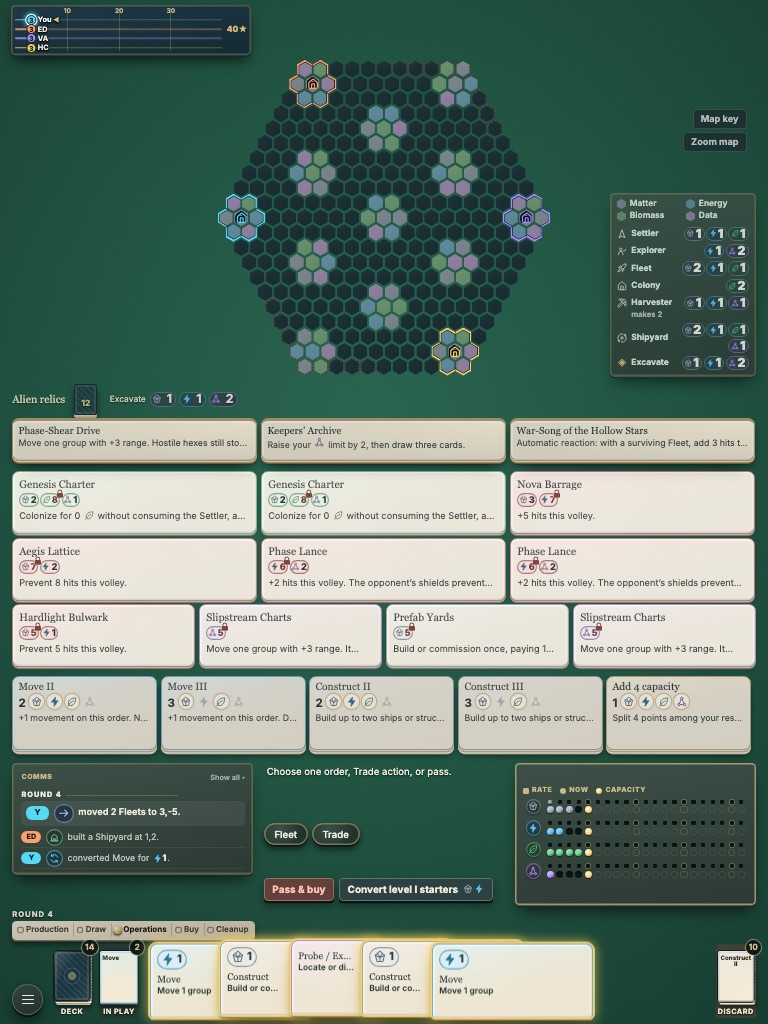
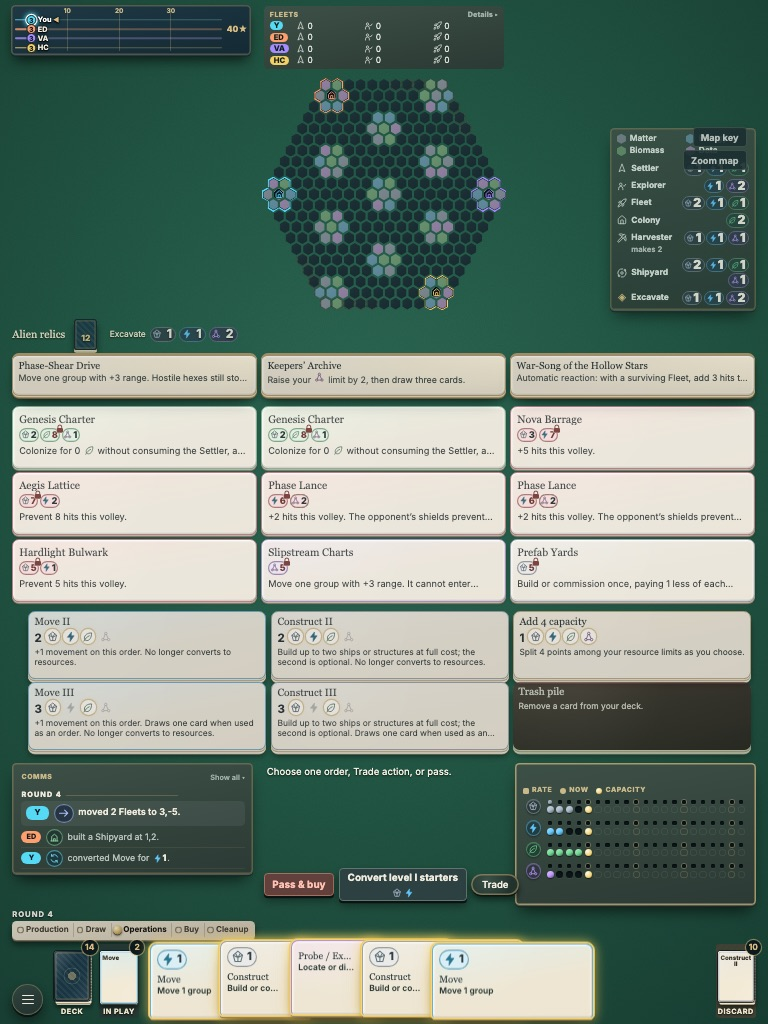
Supply strictly 3x4 (relics, then three rows of three market cards); no band above the upgrades (turn prompt joins the phases on top); Upgrades as a 3x2 grid with the Trash pile; Pass/Finish, Convert and Trade right of the mat above Discard; no Fleet button

diff --git a/prototypes/galactic-reach/styles.css b/prototypes/galactic-reach/styles.css
@@ -2690,6 +2690,15 @@ html { -webkit-text-size-adjust: 100%; text-size-adjust: 100%; }
    phases lie at the top of the supply, over the relics and the market. The Alien relics header
    row is gone (Preview all is in the menu; the Excavate cost in the map key). ==== */
 .fleet-glance { display: none; }
+@media (min-width: 600px) and (min-height: 600px) {
+  .fleet-glance-head { display: flex; justify-content: space-between; align-items: center; padding: 0; border: 0; background: none; color: #c9b98a; font: inherit; font-size: 9px; font-weight: 800; letter-spacing: .08em; text-transform: uppercase; cursor: pointer; }
+  .fleet-glance-head small { color: #9fb0a8; font-size: 9.5px; letter-spacing: 0; text-transform: none; }
+  .fleet-glance-head:focus-visible { outline: 2px solid var(--cyan); outline-offset: 1px; border-radius: 4px; }
+  .fleet-glance-row { display: grid; grid-template-columns: 30px repeat(3, 1fr); align-items: center; gap: 4px; }
+  .fleet-glance-row b { justify-self: start; padding: 0 5px; border-radius: 8px; background: var(--player); color: #10201c; font-size: 10px; font-weight: 800; }
+  .fleet-glance-row span { display: inline-flex; align-items: center; gap: 3px; }
+  .fleet-glance-row .board-glyph { width: 12px; height: 12px; fill: none; stroke: currentColor; stroke-width: 2; }
+}
 @media (min-width: 600px) and (min-height: 600px) and (orientation: landscape) {
   .board-map-region { grid-column: 2 !important; place-items: center !important; }
   .map-tools { grid-column: 2 !important; }
@@ -2699,13 +2708,6 @@ html { -webkit-text-size-adjust: 100%; text-size-adjust: 100%; }
     grid-column: 1; grid-row: 1 / 9; align-self: end; z-index: 4; display: grid; gap: 3px; margin: 0 0 calc(var(--legend-h, 262px) + 10px) 4px; padding: 6px 9px 7px;
     border-radius: 6px; background: linear-gradient(170deg, #3d5047, #2b3a34); box-shadow: inset 0 0 0 2px #c2a76b55, 0 3px 0 #18221f, 0 12px 20px -6px #000b; color: #dfe6e0; font-size: 11px; font-weight: 600;
   }
-  .fleet-glance-head { display: flex; justify-content: space-between; align-items: center; padding: 0; border: 0; background: none; color: #c9b98a; font: inherit; font-size: 9px; font-weight: 800; letter-spacing: .08em; text-transform: uppercase; cursor: pointer; }
-  .fleet-glance-head small { color: #9fb0a8; font-size: 9.5px; letter-spacing: 0; text-transform: none; }
-  .fleet-glance-head:focus-visible { outline: 2px solid var(--cyan); outline-offset: 1px; border-radius: 4px; }
-  .fleet-glance-row { display: grid; grid-template-columns: 30px repeat(3, 1fr); align-items: center; gap: 4px; }
-  .fleet-glance-row b { justify-self: start; padding: 0 5px; border-radius: 8px; background: var(--player); color: #10201c; font-size: 10px; font-weight: 800; }
-  .fleet-glance-row span { display: inline-flex; align-items: center; gap: 3px; }
-  .fleet-glance-row .board-glyph { width: 12px; height: 12px; fill: none; stroke: currentColor; stroke-width: 2; }
   #fleet-tab { display: none !important; }
   #relics-panel > .section-intro:not(:has(#cancel-excavate:not([hidden]))), #relics-panel .relic-payment, #relic-row-help { display: none !important; }
   /* The round's phases on top of the supply. */
@@ -2718,3 +2720,54 @@ html { -webkit-text-size-adjust: 100%; text-size-adjust: 100%; }
   /* Notices lie over the map key at the bottom of the left column (it has no controls). */
   .toast { top: auto !important; bottom: calc((var(--front-h-fixed, 96px) + 22px) * var(--table-zoom, 1)) !important; left: calc(20px * var(--table-zoom, 1)) !important; }
 }
+
+/* ==== The supply column with no band: the round's phases and the turn prompt on top, the relics,
+   the market (three rows of three), then the Upgrades area (Move II, Construct II, Add capacity /
+   Move III, Construct III, Trash) right above your mat. The turn's buttons and Trade stack to the
+   right of the mat, above Discard. The Fleet button is gone: the fleets panel is on the left. ==== */
+@media (min-width: 600px) and (min-height: 600px) {
+  #fleet-tab, #open-trash { display: none !important; }
+  #market-row > .game-card[hidden] { display: none !important; }
+  /* Upgrade cards show their whole name, payment icons and a two-line effect. */
+  .upgrade-group #upgrade-market .game-card:not(:hover):not(:focus):not(:focus-within) .card-effect { display: -webkit-box !important; -webkit-box-orient: vertical; -webkit-line-clamp: 2 !important; line-clamp: 2 !important; white-space: normal !important; overflow: hidden !important; font-size: 11px !important; line-height: 1.25 !important; }
+  .upgrade-group #upgrade-market { grid-template-columns: 16px repeat(3, minmax(0, 1fr)) !important; grid-template-rows: repeat(2, var(--utop-h)) !important; --utop-h: 88px !important; }
+  .upgrade-group #upgrade-market::before { grid-row: 1 / 3 !important; }
+  .upgrade-group #upgrade-market > [data-upgrade-offer="move"][data-upgrade-level="2"] { grid-column: 2; grid-row: 1; }
+  .upgrade-group #upgrade-market > [data-upgrade-offer="construct"][data-upgrade-level="2"] { grid-column: 3; grid-row: 1; }
+  .upgrade-group #upgrade-market > .capacity-offer { grid-column: 4; grid-row: 1; }
+  .upgrade-group #upgrade-market > [data-upgrade-offer="move"][data-upgrade-level="3"] { grid-column: 2; grid-row: 2; }
+  .upgrade-group #upgrade-market > [data-upgrade-offer="construct"][data-upgrade-level="3"] { grid-column: 3; grid-row: 2; }
+  .upgrade-group #upgrade-market > .trash-pile { grid-column: 4; grid-row: 2; box-shadow: 0 1px 0 #efe5cc, 0 2px 0 #cfc09c, 0 3px 0 #a99a77, 0 5px 0 #efe5cc, 0 6px 0 #a99a77, 0 9px 10px -3px #000a !important; }
+  .upgrade-group #upgrade-market .game-card:not(:hover):not(:focus):not(:focus-within) .card-name { white-space: normal !important; overflow: visible !important; text-overflow: clip !important; }
+}
+@media (min-width: 600px) and (min-height: 600px) and (orientation: landscape) {
+  .app-shell, .has-saved-table .app-shell, .has-replay .app-shell { grid-template-rows: auto auto auto minmax(0, 1fr) auto auto auto auto var(--front-h) !important; }
+  .phase-stepper { grid-row: 1 !important; }
+  .board-toolbar { grid-row: 2 !important; align-self: start !important; margin: 0 0 6px !important; }
+  #relics-panel, #relics-panel[hidden], #relics-panel.tab-panel { grid-row: 3 !important; }
+  .tab-panel { grid-row: 4 !important; }
+  #relics-panel.tab-panel { grid-row: 3 !important; }
+  #fleet-panel.active { grid-row: 3 / 5 !important; }
+  .upgrade-group { grid-row: 6 !important; margin-top: 6px; }
+  /* The turn's buttons and Trade: a column right of the mat, above Discard. */
+  #resource-grid.resource-grid { justify-self: start !important; width: calc(100% - 252px) !important; margin-right: 0 !important; }
+  #hand-panel .hand-tools { grid-column: 3 !important; grid-row: 8 !important; justify-self: end !important; align-self: start !important; width: 240px !important; display: flex !important; flex-direction: column; align-items: stretch; gap: 6px; margin: 0 !important; }
+  #hand-panel .hand-tools .button { width: 100%; white-space: normal; text-align: center; }
+  .console-nav { display: none !important; }
+  #hand-panel .hand-tools #open-trade { align-self: stretch; }
+}
+/* Upright: the fleets panel joins the top rows, beside the Prestige track. */
+@media (min-width: 600px) and (min-height: 600px) and (orientation: portrait) {
+  .fleet-glance { display: grid !important; grid-column: 2 !important; grid-row: 1 !important; align-self: start; gap: 2px; padding: 5px 8px; border-radius: 6px; background: linear-gradient(170deg, #3d5047, #2b3a34); color: #dfe6e0; font-size: 11px; }
+}
+/* While you choose an Excavate reward, each relic's choose button lies over the foot of its card,
+   so the relics row keeps its height and the market keeps its room. */
+@media (min-width: 600px) and (min-height: 600px) {
+  .relic-row > div:has(> .button) { position: relative; height: var(--rtop-h, 56px) !important; }
+  .relic-row > div:has(> .button) > .game-card { height: 100% !important; }
+  .relic-row > div > .button { position: absolute !important; left: 4px; right: 4px; bottom: 3px; z-index: 2; min-height: 0 !important; padding: 1px 6px !important; font-size: 11px !important; line-height: 1.2; }
+}
+/* The Trash pile: a dark pile with light lettering. */
+.upgrade-group #upgrade-market > .trash-pile { background: linear-gradient(170deg, #4a302a, #2e1d19) !important; border-color: #a77b66 !important; color: #f4e3d6 !important; filter: none !important; }
+.upgrade-group #upgrade-market > .trash-pile :is(.card-name, .card-effect) { color: #f4e3d6 !important; }
+.upgrade-group #upgrade-market > .trash-pile.unavailable { opacity: .7; }

diff --git a/prototypes/galactic-reach/rulebook.html b/prototypes/galactic-reach/rulebook.html
@@ -123,7 +123,7 @@
 
       <section id="movement">
         <h2>05 / Exploration &amp; movement</h2>
-        <p id="shared-board">Read shared table information around the board: on a desktop window, the whole window is one table, scaled as a whole to fit; the standings are the race to the Prestige goal, a small printed track by the map’s top-left corner with one lane per faction and its marker at its current score (the acting faction’s marker glows, with an arrow; point at or focus a marker for an overview of that faction’s Prestige sources, colonies, cards bought and fleet power, or select it for the breakdown; on a phone the track is the <strong>Table</strong> drawer); the comms feed lies in the top-left corner, under the track, as a small card of the latest three entries, with your fleets at a glance below it (select it for the full fleet manifest), printed like your player mat; select it to open the whole feed, and again (or press Escape) to close it (each entry shows who acted, a symbol for the kind of event and its resource and Prestige amounts; point at an entry for the full sentence); the map itself fills all the space the other pieces leave, reaching into the corners around the track and the comms card, with a key of the terrain colours, each piece’s price and the Excavate cost in the bottom-left corner (the <strong>Map key</strong> button has the full descriptions); and to its right lies the supply, all visible together: the face-up alien relics on top, then the market cards in rows by cost - the most expensive row, the medium row and the cheap row; the round’s phases lie at the top of the supply; below it, by your seat, are the turn prompt, <strong>Fleet</strong> and <strong>Trade</strong>, then the turn’s buttons, and directly above your player mat the <strong>Upgrades</strong> group: Move II, Move III, Construct II, Construct III and <strong>Add 4 capacity</strong> as cards, each showing its price with an icon for each resource you could pay with, lit when your stock can pay it now (with <strong>Trash a card</strong> beside them during Buy). On your turn your hand glows and gently breathes (a still glow when your device asks for reduced motion). <strong>Fleet</strong> opens over the supply. The game’s title, rules, card gallery, new game, Undo and playtest notes open from the menu button in the bottom-left corner. The market shows its cards with their names and as much of each effect as fits, wrapped; on a wide window the market cards are drawn in real card proportions, three to five to a row, whichever makes them largest (point at one to read it in full; choose it to buy), and cards you can buy now are outlined in gold. <strong>Trade</strong> opens the trade channel in its own window. Card frames take the colour of the resource a card works with (gold for capacity, Buy and Prestige cards, red for military and attack cards); the map key shows them. Select a Prestige marker to inspect its breakdown; the scoring reference is in <a href="#victory">Victory</a>. On a narrow screen, these panels reflow inside the board frame; scroll the map to reach other hexes. The recent-action feed can say that Probe was used, but never gives its private relic location. Your hand, card piles, reserves, and full game-report download stay on your player mat. The report can include private information.</p>
+        <p id="shared-board">Read shared table information around the board: on a desktop window, the whole window is one table, scaled as a whole to fit; the standings are the race to the Prestige goal, a small printed track by the map’s top-left corner with one lane per faction and its marker at its current score (the acting faction’s marker glows, with an arrow; point at or focus a marker for an overview of that faction’s Prestige sources, colonies, cards bought and fleet power, or select it for the breakdown; on a phone the track is the <strong>Table</strong> drawer); the comms feed lies in the top-left corner, under the track, as a small card of the latest three entries, with your fleets at a glance below it (select it for the full fleet manifest), printed like your player mat; select it to open the whole feed, and again (or press Escape) to close it (each entry shows who acted, a symbol for the kind of event and its resource and Prestige amounts; point at an entry for the full sentence); the map itself fills all the space the other pieces leave, reaching into the corners around the track and the comms card, with a key of the terrain colours, each piece’s price and the Excavate cost in the bottom-left corner (the <strong>Map key</strong> button has the full descriptions); and to its right lies the supply, all visible together: the face-up alien relics on top, then the market cards in rows by cost - the most expensive row, the medium row and the cheap row; the round’s phases and the turn prompt lie at the top of the supply, and the market shows three rows of three cards (the most expensive row first); directly above your player mat lies the <strong>Upgrades</strong> area (Move II, Construct II and <strong>Add 4 capacity</strong>, then Move III, Construct III and the <strong>Trash</strong> pile), each card showing its price with an icon for each resource you could pay with, lit when your stock can pay it now; and right of the mat, above Discard, are the turn’s buttons and <strong>Trade</strong>. On your turn your hand glows and gently breathes (a still glow when your device asks for reduced motion). <strong>Fleet</strong> opens over the supply. The game’s title, rules, card gallery, new game, Undo and playtest notes open from the menu button in the bottom-left corner. The market shows its cards with their names and as much of each effect as fits, wrapped; on a wide window the market cards are drawn in real card proportions, three to five to a row, whichever makes them largest (point at one to read it in full; choose it to buy), and cards you can buy now are outlined in gold. <strong>Trade</strong> opens the trade channel in its own window. Card frames take the colour of the resource a card works with (gold for capacity, Buy and Prestige cards, red for military and attack cards); the map key shows them. Select a Prestige marker to inspect its breakdown; the scoring reference is in <a href="#victory">Victory</a>. On a narrow screen, these panels reflow inside the board frame; scroll the map to reach other hexes. The recent-action feed can say that Probe was used, but never gives its private relic location. Your hand, card piles, reserves, and full game-report download stay on your player mat. The report can include private information.</p>
         <p id="keyboard-controls">Use <strong>Tab</strong> to reach controls and <strong>Enter</strong> or <strong>Space</strong> to activate them. The first link skips straight to player controls. Use arrow keys, Home, or End to switch the player-control tabs. Escape closes inspectors and reference windows. Combat and excess-resource choices stay open until you make the required choice.</p>
         <div class="book-legend" role="group" aria-label="Map symbols"><span><b class="relic-mark" aria-hidden="true">◈</b> Located relic</span><span><b class="relic-mark" aria-hidden="true">●</b> Gray moon · no production</span></div>
         <p>World terrain is always public, but seeing a world does not locate its relic. Any Settler, Fleet, or Explorer ending a move surveys that world or moon, revealing its terrain to everyone. Arrival never locates a relic. Use <strong>Probe</strong> from your Explorer’s current hex to locate the nearest remaining relic you have not already discovered, even on an unvisited world or hidden moon. Known sites are skipped. When you locate the last unknown site, a message tells you that all remaining relics are discovered. If all remaining sites are already known to you, Probe warns you without spending the card or your action. You do not need to reach that world or moon first. A signal on an undiscovered moon reveals the relic’s hex to you without revealing the moon’s terrain. Other players must locate it for themselves. Existing discovery relic cards keep their printed effects. Probe and Chorus signals stay private after later terrain surveys. Only an effect that explicitly reveals relics to everyone makes them public. All players’ units remain visible, including in empty space. Unit markers alone do not reveal a hidden moon or relic.</p>

diff --git a/prototypes/galactic-reach/app.js b/prototypes/galactic-reach/app.js
@@ -4107,22 +4107,24 @@ function createGalacticReach(options = {}) {
     return [...player.hand,...player.discard,...player.inPlay].filter(card=>card.key===key&&card.starter&&starterLevel(card)<3);
   }
   const LEVEL_NAMES = ['','I','II','III'];
-  // The market's rows run from the most expensive cards (just under the relics) to the cheapest.
-  // Each row spans the supply's width: three cards to a row, or four when the cheap row holds four.
+  // The market's rows run from the most expensive cards (just under the relics) to the cheapest,
+  // three cards to a row.
   const MARKET_TIERS = ['expensive', 'medium', 'cheap'];
   function tierMarket() {
     const cards = [...($('#market-row')?.children || [])].filter(card => card.dataset?.buyMarket != null);
     if (!cards.length) return;
     const total = card => Object.values(ALL_CARDS[state.market[Number(card.dataset.buyMarket)]?.key]?.cost || {}).reduce((sum, n) => sum + n, 0);
     const ranked = [...cards].sort((a, b) => total(b) - total(a));
-    const size = Math.floor(ranked.length / 3), sizes = [size, size, ranked.length - 2 * size];
-    let at = 0;
-    sizes.forEach((count, tier) => ranked.slice(at, at += count).forEach((card, place) => {
-      card.dataset.tier = MARKET_TIERS[tier];
-      card.style.setProperty('--tier-row', String(tier + 1));
-      card.style.setProperty('--tier-span', String(Math.max(1, Math.floor(12 / count))));
-      card.style.setProperty('order', String(tier * 10 + place));
-    }));
+    // Three rows of three. Until the tiered-market rules give each tier its own deck, cards past
+    // the ninth (the cheapest) wait off the table.
+    ranked.forEach((card, place) => {
+      const tier = Math.floor(place / 3);
+      card.hidden = tier > 2;
+      card.dataset.tier = MARKET_TIERS[Math.min(tier, 2)];
+      card.style.setProperty('--tier-row', String(Math.min(tier, 2) + 1));
+      card.style.setProperty('--tier-span', '4');
+      card.style.setProperty('order', String(place));
+    });
   }
   function renderUpgradeOffers(humanBuy) {
     const me=state.players[ME], area=$('#upgrade-market');
@@ -4137,10 +4139,16 @@ function createGalacticReach(options = {}) {
       const reason=!humanBuy?'Upgrade during your Buy turn.':!ready.length?`No level ${LEVEL_NAMES[level-1]} ${def.name} in hand, discard or in play.`:!canPay?`Needs ${price} of one resource.`:'';
       const effect=`${upgradedOrderText({key})}${level===3?' Draws one card when used as an order.':''} No longer converts to resources.`;
       return `<button class="game-card upgrade-offer ${reason?'unavailable':''}" style="--card-accent:${def.accent}" data-upgrade-offer="${key}" data-upgrade-level="${level}" ${reason?`disabled title="${reason}"`:''} aria-label="Upgrade ${esc(def.name)} to level ${LEVEL_NAMES[level]} for ${price} of one resource; does not use a purchase${reason?`. Unavailable: ${reason}`:''}"><span class="card-type">Starter upgrade</span><span class="card-name">${def.name} ${LEVEL_NAMES[level]}</span>${cardIllustration(def)}<span class="card-effect">${effect}</span><span class="card-footer"><small>Upgrade</small><span class="upgrade-price pay-options" aria-hidden="true"><strong>${price}</strong>${RESOURCES.map(resource=>`<span class="pay-chip ${me.resources[resource]>=price?'can':'cannot'}" data-pay="${resource}">${resourceDot(resource)}</span>`).join('')}</span><span class="sr-only">${price} of one resource</span></span><span class="card-limit-note">${note}</span></button>`;
-    })).join('')+capacityOffer();
+    })).join('')+capacityOffer()+trashPile(humanBuy);
     $$('[data-upgrade-offer]').forEach(button=>button.addEventListener('click',event=>openUpgradeChoice(button.dataset.upgradeOffer,event.target.closest?.('.pay-chip.can')?.dataset.pay)));
     $('[data-capacity-offer]')?.addEventListener('click',()=>openStorageAllocation());
+    $('[data-trash-pile]')?.addEventListener('click',()=>$('#open-trash')?.click());
     if ($('#upgrade-dialog').open) renderUpgradeChoice();
+  }
+  // The Trash pile lies with the upgrades: during your Buy turn it opens the trash choice.
+  function trashPile(humanBuy) {
+    const label=($('#open-trash')?.textContent||'Trash a card').replace('Trash a card','').trim();
+    return `<button class="game-card upgrade-offer trash-pile ${humanBuy?'':'unavailable'}" type="button" data-trash-pile ${humanBuy?'':'disabled title="Trash a card during your Buy turn."'} aria-label="Trash pile: trash a card from your deck${humanBuy?'':'. Unavailable: during your Buy turn only.'}"><span class="card-type">Trash</span><span class="card-name">Trash pile</span><span class="card-effect">Remove a card from your deck${label?` ${label}`:''}.</span></button>`;
   }
   // Add 4 capacity lies with the starter upgrades as a card of the same kind, showing its current
   // price (the same amount of each resource). It opens the same split-the-points dialog.
@@ -4831,6 +4839,9 @@ function createGalacticReach(options = {}) {
     }
     setupMatTrades();
     setupPhoneCardSheet();
+    // Trade lies with the turn's buttons (beside the mat on the table, in the action strip on a phone).
+    const tradeButton=$('#open-trade'), turnButtons=$('#hand-panel .hand-tools');
+    if (tradeButton && turnButtons?.append) turnButtons.append(tradeButton);
     setupLogCard();
     $('#bank-trade-form').addEventListener('submit',event => {
       event.preventDefault();

diff --git a/changes/gr-ui-followup.md b/changes/gr-ui-followup.md
@@ -3,4 +3,4 @@ compat: safe
 title: The turn lies with your seat
 pr: 74
 ---
-The round's phases, the turn prompt and Fleet/Trade now sit at the bottom of the supply, next to your hand and the turn's buttons, and the supply starts at the top. On your turn your hand glows and gently breathes instead of a "Your turn" banner ([Shared board](rulebook.html#shared-board)). Market cards show their whole name and as much of their effect as fits, so they read without pointing at them; on wide windows market cards are real card shapes, as large as the space allows. A short key of the terrain colours and pieces lies in the map's empty corner. Your hand, the market, your mat and the map read first; the relics, upgrades, phases and comms sit back until you point at them. The mat no longer offers a Discard: resources above a limit are still discarded automatically ([Resources](rulebook.html#resources)). An Upgrades row directly above your mat holds Move II, Move III, Construct II, Construct III and Add 4 capacity as cards, each lighting the resources you can pay with now. The supply lies in rows: the relics on top, then the market from its most expensive cards down to its cheapest. Your hand is a fanned hand held low, each card showing a narrow strip with its name; point at a card to lift it whole. The market fills the supply's full width. The comms log and your fleets at a glance sit at the top-left, the map key with each piece's price at the bottom-left, and the round's phases at the top-right; Preview all relics is in the menu.
+The round's phases, the turn prompt and Fleet/Trade now sit at the bottom of the supply, next to your hand and the turn's buttons, and the supply starts at the top. On your turn your hand glows and gently breathes instead of a "Your turn" banner ([Shared board](rulebook.html#shared-board)). Market cards show their whole name and as much of their effect as fits, so they read without pointing at them; on wide windows market cards are real card shapes, as large as the space allows. A short key of the terrain colours and pieces lies in the map's empty corner. Your hand, the market, your mat and the map read first; the relics, upgrades, phases and comms sit back until you point at them. The mat no longer offers a Discard: resources above a limit are still discarded automatically ([Resources](rulebook.html#resources)). An Upgrades row directly above your mat holds Move II, Move III, Construct II, Construct III and Add 4 capacity as cards, each lighting the resources you can pay with now. The supply lies in rows: the relics on top, then the market from its most expensive cards down to its cheapest. Your hand is a fanned hand held low, each card showing a narrow strip with its name; point at a card to lift it whole. The market fills the supply's full width. The comms log and your fleets at a glance sit at the top-left, the map key with each piece's price at the bottom-left, and the round's phases at the top-right; Preview all relics is in the menu. The market shows three rows of three, the upgrades and the Trash pile lie in a 3x2 grid above your mat, and the turn's buttons and Trade sit right of the mat above Discard.
